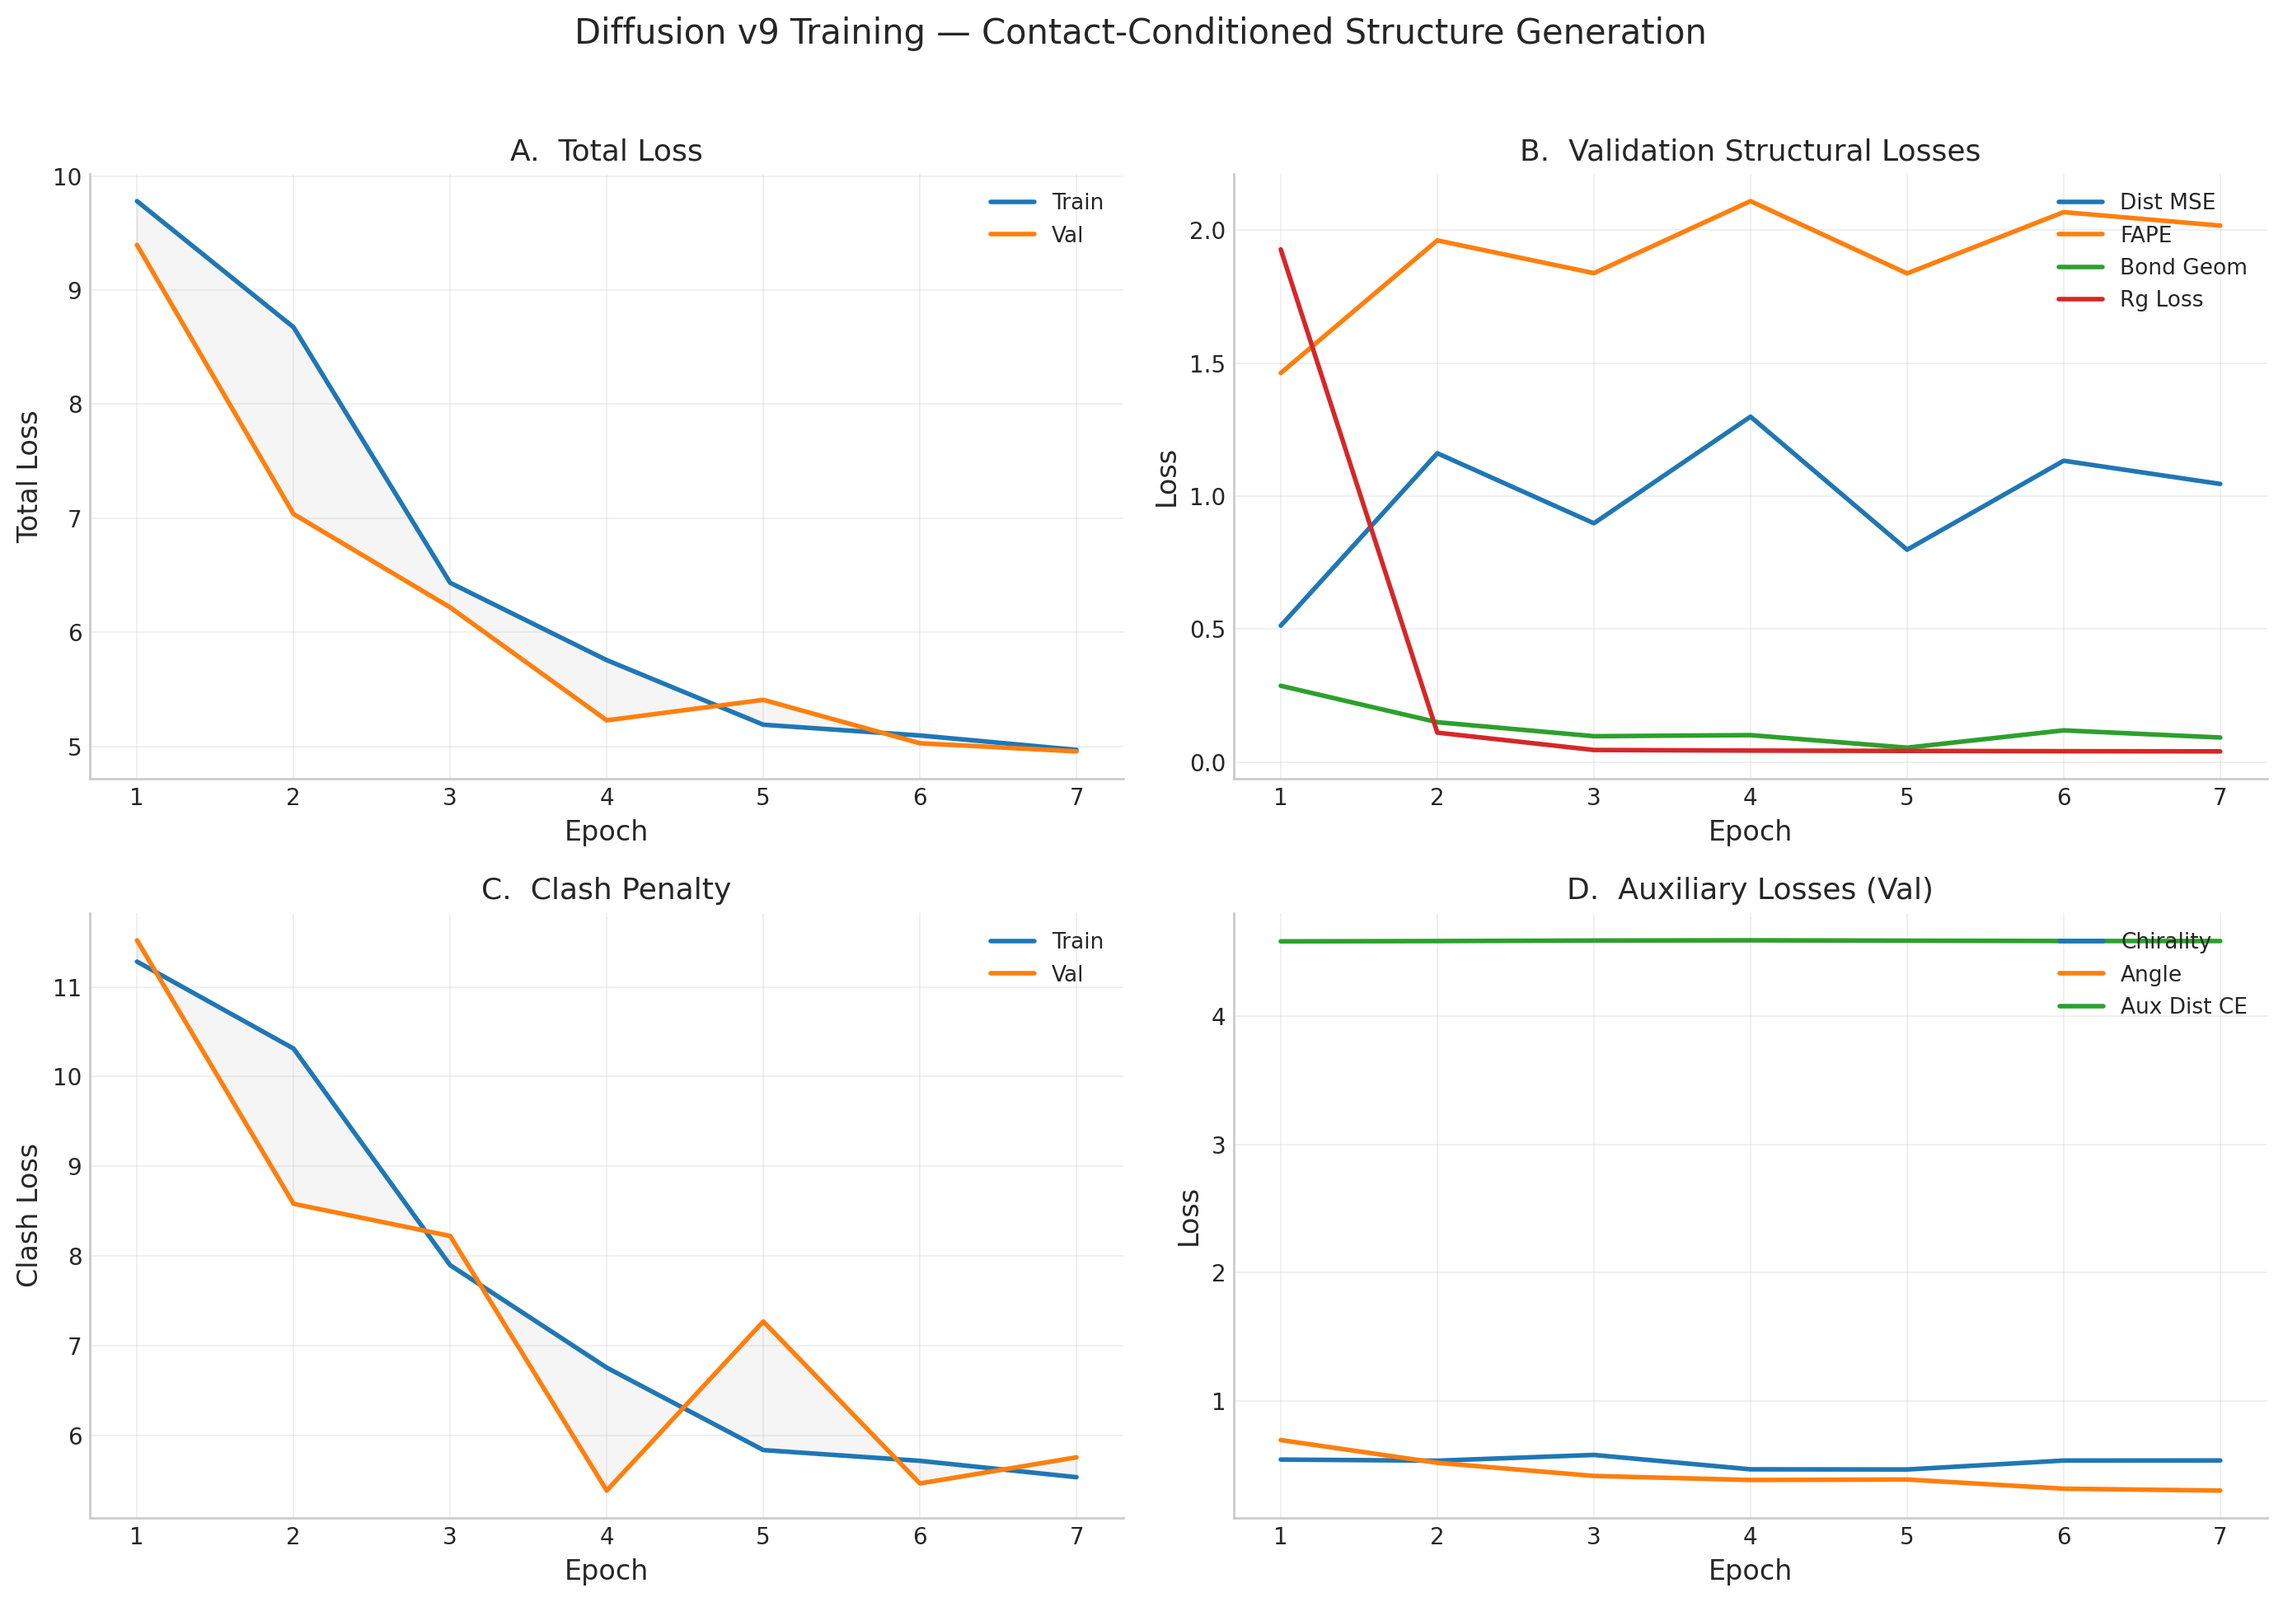
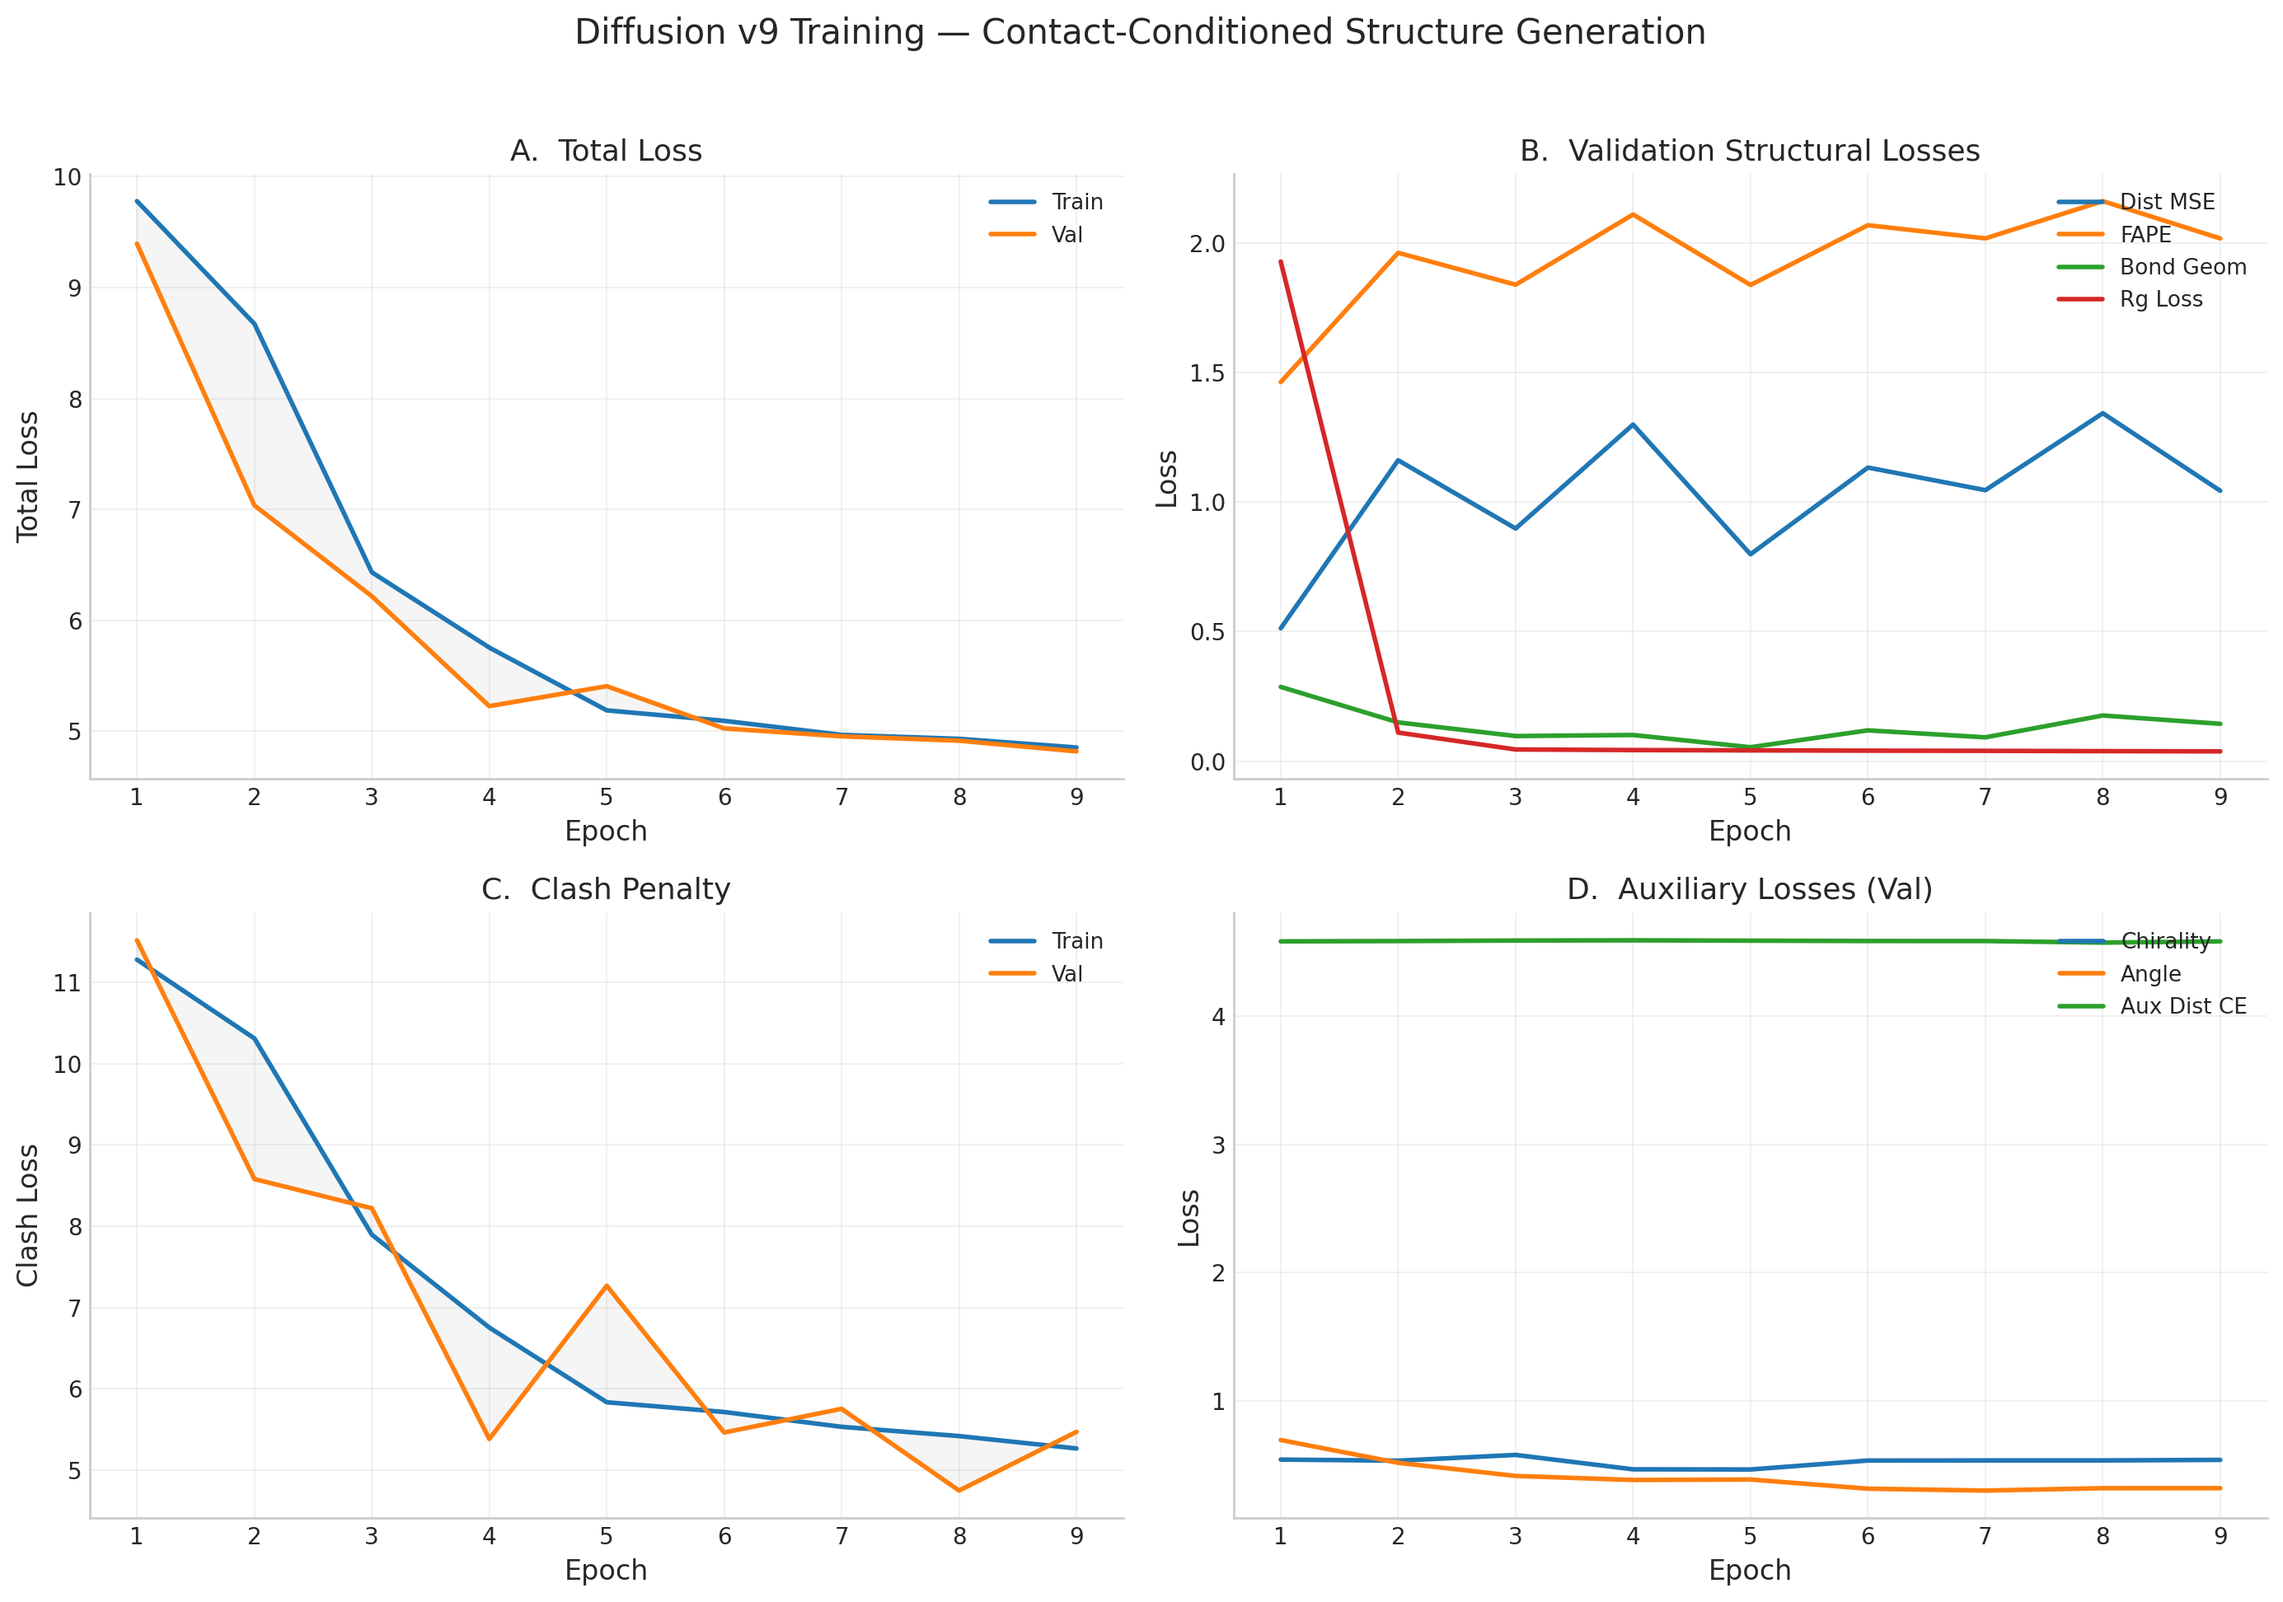
Update v9 diffusion training: epoch 9 (val=4.819, new best)

diff --git a/index.html b/index.html
@@ -1269,6 +1269,28 @@
                 <td>&mdash;</td>
                 <td><span class="tag tag-best">NEW BEST</span></td>
               </tr>
+              <tr>
+                <td>8</td>
+                <td>4.915</td>
+                <td>1.343</td>
+                <td>2.161</td>
+                <td>0.039</td>
+                <td>0.176</td>
+                <td>&mdash;</td>
+                <td>&mdash;</td>
+                <td><span class="tag tag-best">NEW BEST</span></td>
+              </tr>
+              <tr>
+                <td>9</td>
+                <td>4.819</td>
+                <td>1.043</td>
+                <td>2.017</td>
+                <td>0.038</td>
+                <td>0.144</td>
+                <td>&mdash;</td>
+                <td>&mdash;</td>
+                <td><span class="tag tag-best">NEW BEST</span></td>
+              </tr>
             </tbody>
           </table>
         </div>
@@ -1279,19 +1301,20 @@
         </div>
 
         <div class="training-observations">
-          <h4>Training Progress (Epochs 1&ndash;7)</h4>
+          <h4>Training Progress (Epochs 1&ndash;9)</h4>
           <ul>
-            <li><strong>Val total loss: 9.40 &rarr; 4.96</strong> (47% reduction in 7 epochs) &mdash; steady improvement with new bests at 6 of 7 epochs.</li>
-            <li><strong>Clash penalty collapsing:</strong> 11.5 &rarr; 5.8 &mdash; the denoiser has halved the steric clash rate. This component still dominates the total loss and has room to improve.</li>
-            <li><strong>Rg and bond geometry solved:</strong> Rg loss &lt; 0.04 since epoch 3, bond geom &lt; 0.10 since epoch 5 &mdash; local constraints are fully learned.</li>
-            <li><strong>FAPE plateauing ~2.0:</strong> frame-aligned point error stabilized but hasn&rsquo;t started decreasing yet, indicating the model is learning global fold topology slowly.</li>
-            <li><strong>DDIM at E5: RMSD = 25.9&Aring;, TM = 0.041</strong> &mdash; sampled structures still random. The denoiser hasn&rsquo;t yet translated its improving training loss into coherent DDIM samples. This is common in early diffusion training &mdash; sampling quality typically lags training loss improvement. Next DDIM eval at epoch 10.</li>
-            <li><strong>Speed:</strong> ~10 min/epoch on 4&times; GTX 1080 Ti (DDP). Training surviving preemptions via checkpoint resume.</li>
+            <li>Val total loss: 9.40 &rarr; 4.82 (49% reduction in 9 epochs) &mdash; steady improvement with new bests at 8 of 9 epochs.</li>
+            <li>Clash penalty: 11.5 &rarr; 5.47 &mdash; the denoiser has cut steric clashes by more than half. This component still dominates the total loss and has room to improve.</li>
+            <li>Distance learning: dist_mse dropped to 1.04 at E9 (from 1.34 at E8), indicating pairwise distance predictions are sharpening.</li>
+            <li>FAPE back to 2.02 at E9 &mdash; frame-aligned point error is slowly declining, suggesting the model is beginning to capture global fold topology.</li>
+            <li>Rg and bond geometry solved: Rg loss &lt; 0.04 since epoch 3, bond geom &lt; 0.18 &mdash; local constraints remain well learned.</li>
+            <li>DDIM at E5: RMSD = 25.9&Aring;, TM = 0.041 &mdash; sampled structures still random at that point. Next DDIM eval at epoch 10 should show whether the improving loss translates to better samples.</li>
+            <li>Now running on a single NVIDIA A40 (47.6 GB) on savio3 &mdash; ~15 min/epoch, much faster than the previous 4&times; GTX 1080 Ti DDP setup which was stuck due to degraded scratch filesystem on the compute node.</li>
           </ul>
         </div>
 
         <div class="training-pending-note">
-          Training on DDP 4&times;GPU (savio2_1080ti). Preemption-resilient watchdog with per-epoch checkpoints and auto-resume. Next DDIM structural evaluation at epoch 10.
+          Training on single A40 GPU (savio3). Preemption-resilient watchdog with per-epoch checkpoints and auto-resume. Next DDIM structural evaluation at epoch 10.
         </div>
       </div>
 
